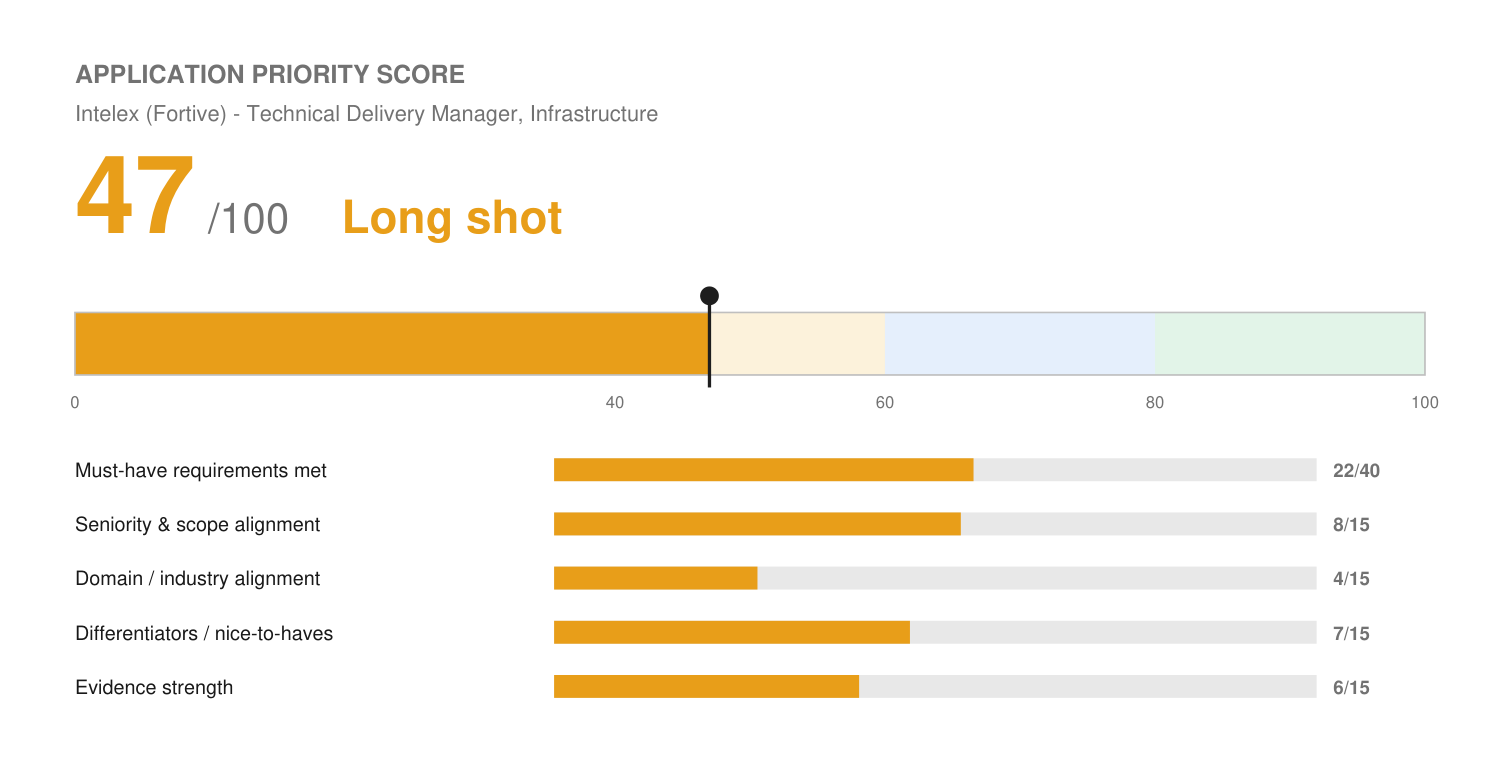
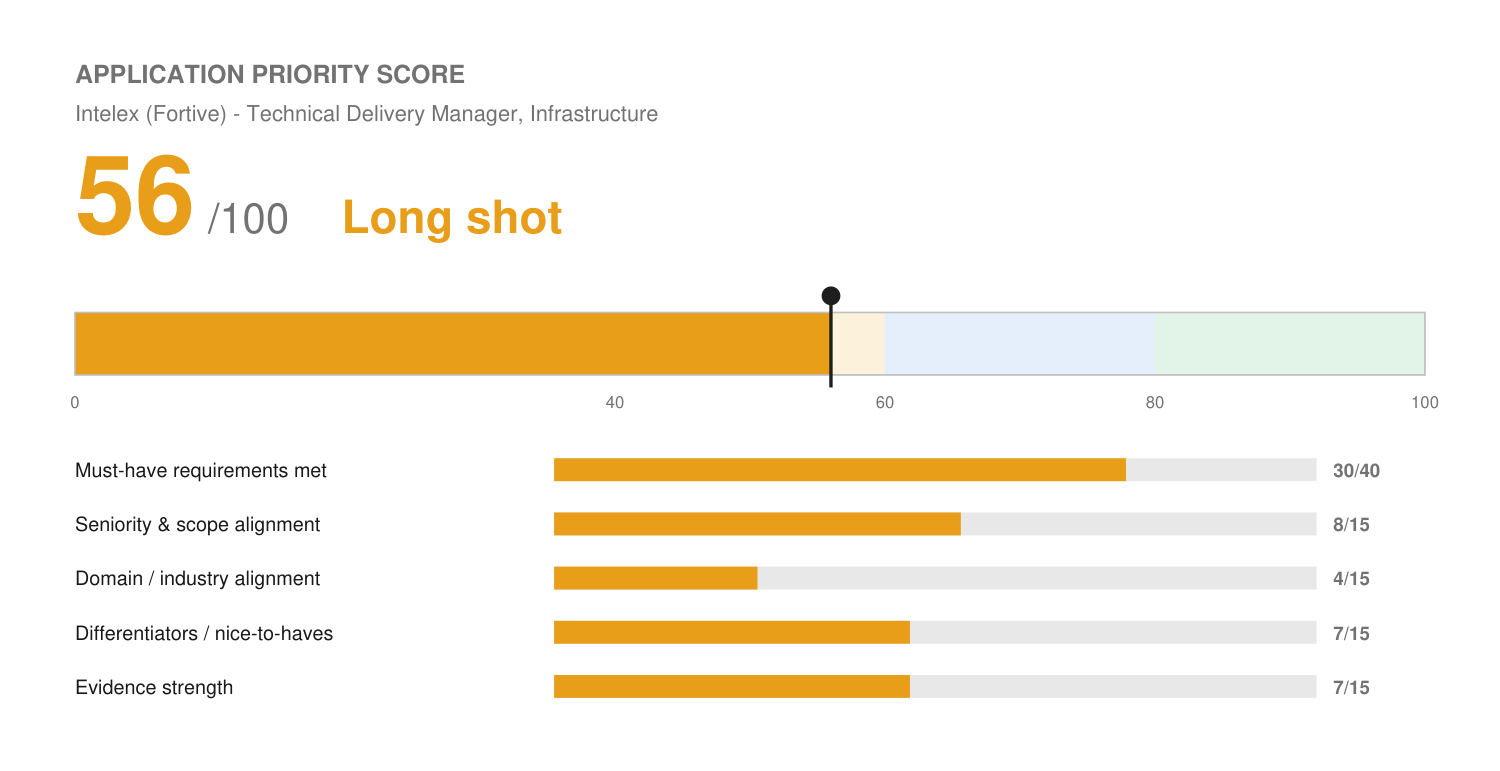
Intelex TDM: rescored 56 after Agile/Scrum, Jira, engineering-liaison confirmations; profile updated
Claude-Session: https://claude.ai/code/session_01Tym7Ffe6DkggR3nyAN5h24

diff --git a/applications/intelex-technical-delivery-manager/match-report.md b/applications/intelex-technical-delivery-manager/match-report.md
@@ -7,33 +7,37 @@
 - **Job ID:** 10869, posted 09/28/2026
 - **Date evaluated:** 2026-09-28
 
+## Rescore (Sep 28): 47 → 56 after confirmations
+
+Josh confirmed Agile/Scrum experience, Jira use (as a user), and engineering-team work mainly as a liaison. Added to `profile/master-profile.md`. Agile/Scrum moves from gap to met; engineering liaison is adjacent (still no infrastructure teams); Jira stays adjacent (backlog ownership not confirmed). Must-haves 22 → 30, evidence 6 → 7. Still a Long shot.
+
 ## Application-Form and Eligibility Check
 
 | Item | Classification | Status |
 | :--- | :--- | :--- |
 | 5+ yrs Product / Technical Product / Technical Project Management | Resume-evidenced | Partial. Implementation planning and delivery leadership, not a PM/TPM title. |
 | Experience with Infrastructure, CloudOps, SRE, DevOps, Security, or DBA teams | Resume-evidenced | **Gap.** |
-| Agile/Scrum | Needs candidate confirmation | Not on file. |
+| Agile/Scrum | Resume-evidenced | Confirmed Sep 28. |
 | Location | Application-form requirement | Pass (Denver office listed; remote allowed). |
 | Salary | Needs candidate confirmation | Not posted. A Denver TDM typically runs ~$110K-$140K; confirm with recruiter. |
 
 ## Application Priority Score
 
 ```
-🟡 Application Priority Score: 47 / 100 — Long shot
-[█████████░░░░░░░░░░░]  47%
+🟡 Application Priority Score: 56 / 100 — Long shot
+[███████████░░░░░░░░░]  56%
 ```
 
 > Internal decision aid, not a prediction of any employer's system output. See `fit.png`.
 
 | Dimension | Score | Why |
 | :--- | :--- | :--- |
-| Must-have requirements met | 22 / 40 | 8 asks: 4 strong (SaaS, technical-to-business translation, stakeholder management, analytics), 1 adjacent (backlog in Jira or similar), 3 gaps (5+ yrs PM/TPM, infrastructure-team experience, Agile/Scrum). |
+| Must-have requirements met | 30 / 40 (was 22) | 8 asks: 4 strong (SaaS, technical-to-business translation, stakeholder management, analytics), 1 adjacent (backlog in Jira or similar), 3 gaps (5+ yrs PM/TPM, infrastructure-team experience, Agile/Scrum). |
 | Seniority & scope alignment | 8 / 15 | IC delivery owner; Josh has delivery leadership but not in engineering orgs. |
 | Domain / industry alignment | 4 / 15 | No infrastructure, cloud ops, or EHSQ; compliance-systems background is small and early. |
 | Differentiators / nice-to-haves | 7 / 15 | SQL (preferred), Jira (listed), automation-minded. No AWS/Azure, observability, FinOps, or PM certifications. |
-| Evidence strength | 6 / 15 | No delivery metrics from an engineering context. |
-| **Total** | **47 / 100** | **Long shot.** |
+| Evidence strength | 7 / 15 (was 6) | No delivery metrics from an engineering context. |
+| **Total** | **56 / 100** | **Long shot.** |
 
 ## Candidate confirmation needed
 

diff --git a/profile/master-profile.md b/profile/master-profile.md
@@ -570,6 +570,14 @@ operator talking, not like a candidate performing.
 
 ## Core Competencies Bank (mix & match to the job)
 
+> **Agile/Scrum, Jira, engineering liaison (confirmed by Josh, Sep 2026):** Josh has
+> worked in Agile/Scrum (role attribution not yet captured) and has used Jira as a
+> user. Owning/prioritizing a Jira backlog is **not** confirmed, so don't claim backlog
+> ownership in Jira. His work with engineering teams has been mainly as a liaison
+> (carrying customer/partner requirements and feedback to Product and Engineering, e.g.
+> Birdeye), not as an embedded delivery manager inside an engineering org. No
+> infrastructure/CloudOps/SRE/DevOps team experience.
+>
 > **Forecasting / pipeline-stage awareness (confirmed by Josh, Sep 2026):** knowing where
 > an opportunity sits in the sales process has been part of every sales role Josh has
 > held, not a skill isolated to one job. Frame as career-long individual-contributor
@@ -588,7 +596,7 @@ operator talking, not like a candidate performing.
 | AI & Automation | Agentic AI, Multi-agent orchestration, LLM workflows, ChatGPT, Claude, Prompt Design, Requirements-to-Prompt Translation, Stakeholder Elicitation, Rapid Prototyping |
 | Customer Success | Onboarding Strategy, Churn Prevention, Time-to-Value Reduction, NPS, Retention, Upsell Identification, Success Plans |
 | Sales & Account Management | Full-cycle Sales, Pipeline Management, Pipeline Stage Tracking & Forecast Hygiene, C-Suite Relationship Building, Strategic Advisory, Account Expansion |
-| Operations & Systems | Process Mapping, SOP Development, Workflow Decomposition, Project Management, Cross-functional Coordination |
+| Operations & Systems | Process Mapping, SOP Development, Workflow Decomposition, Project Management, Cross-functional Coordination, Agile/Scrum, Jira (user) |
 | Content & Writing | Thought Leadership, Direct Response Copy, Technical Translation, Brand Voice, Editorial Management |
 | Office & Finance Basics | Microsoft Word, Outlook, Excel (experienced); Basic bookkeeping, reconciliation, AP/AR *(confirmed by Josh, Sep 2026; which role(s) not yet captured, ask before writing a role-specific bullet)* |
 | Tools & Platforms | GoHighLevel, HubSpot, Salesforce, Notion, Slack, Asana, Monday.com, Jira, Zendesk, ClickUp, Screaming Frog, Google Apps, Procore |
